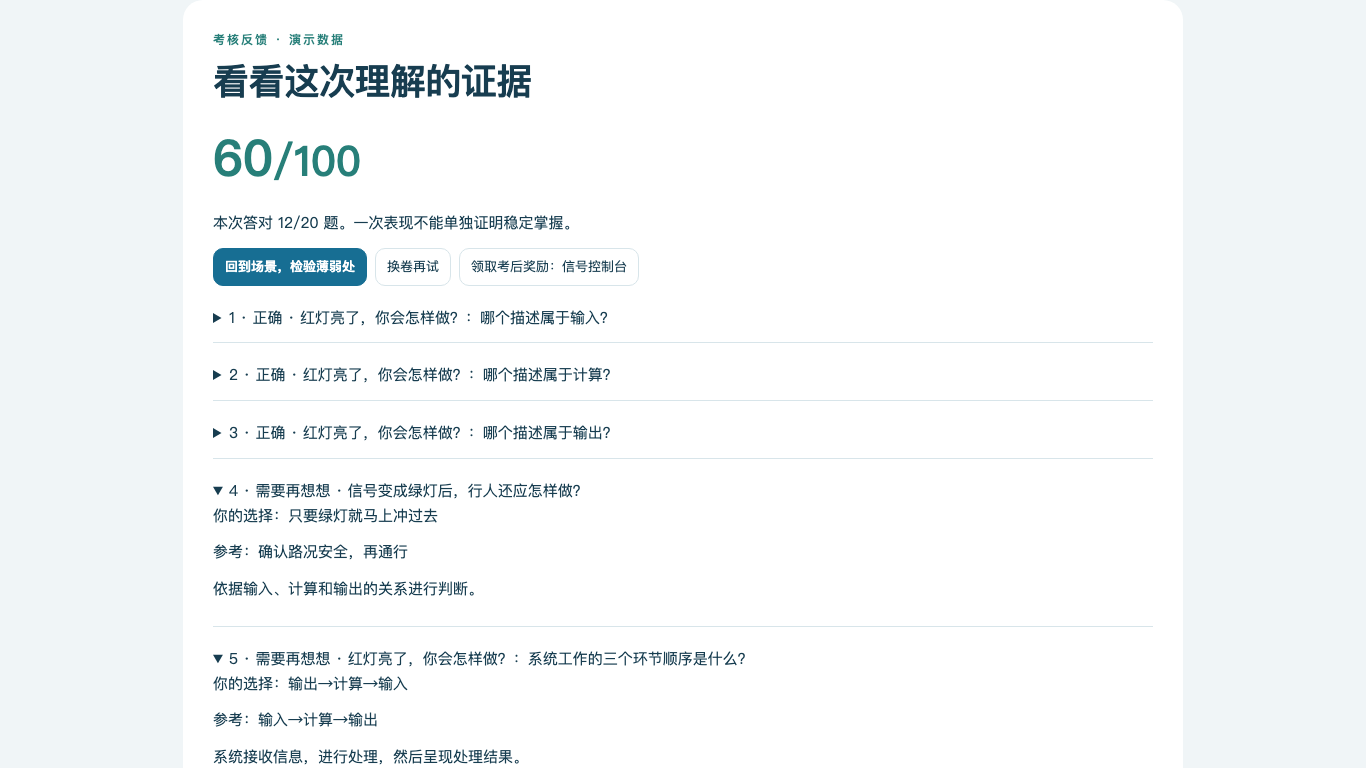
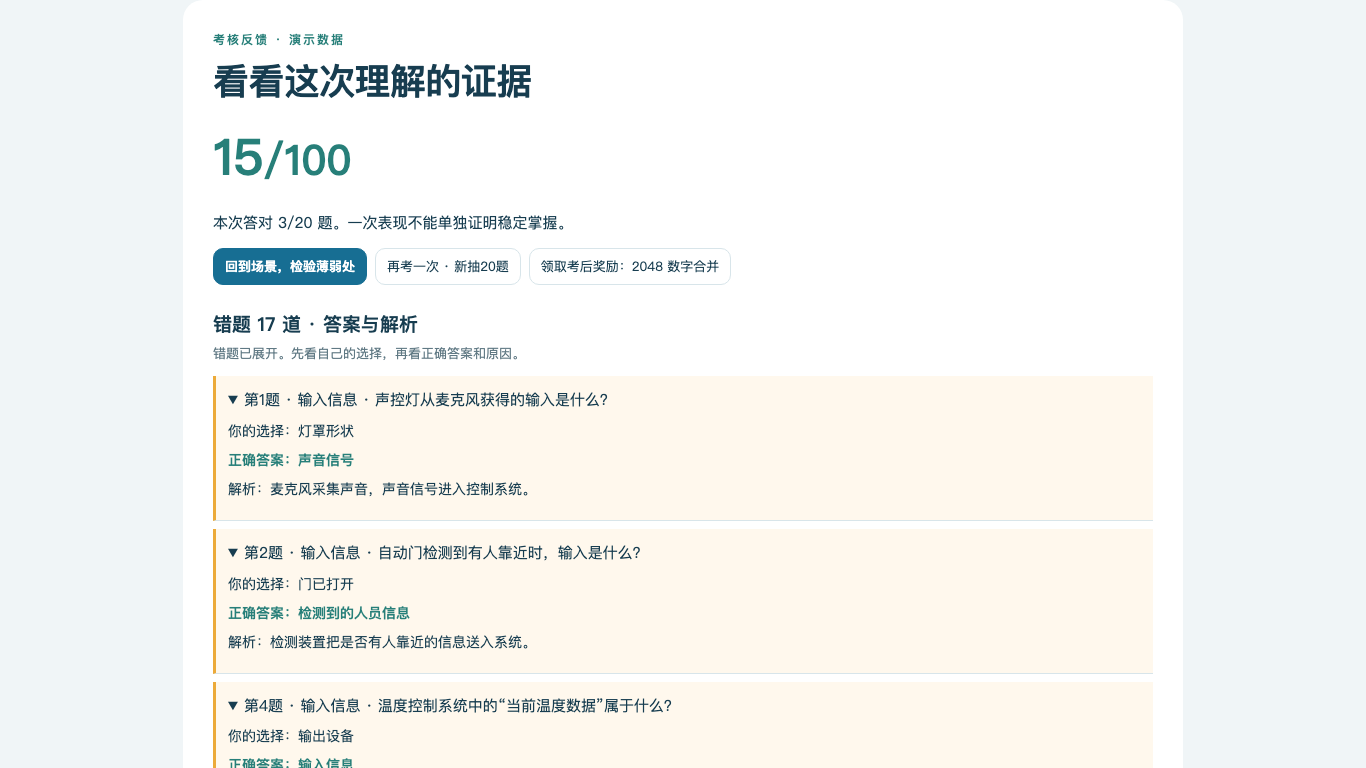
Clarify repeat exams and show wrong answer explanations

Changed region(s): [[0.1537, 0.4062, 0.5534, 1.0], [0.1845, 0.2812, 0.5227, 0.375], [0.1537, 0.1562, 0.2767, 0.25]]

diff --git a/public/index.html b/public/index.html
@@ -1,4 +1,4 @@
-<!doctype html><html lang="zh-CN"><head><meta charset="utf-8"><meta name="viewport" content="width=device-width,initial-scale=1"><title>校园系统探索站 · 输入输出与计算</title><link rel="stylesheet" href="/style.css?v=6"><script src="/rules.js?v=1" defer></script><script type="module" src="/app.mjs?v=7"></script></head><body>
+<!doctype html><html lang="zh-CN"><head><meta charset="utf-8"><meta name="viewport" content="width=device-width,initial-scale=1"><title>校园系统探索站 · 输入输出与计算</title><link rel="stylesheet" href="/style.css?v=7"><script src="/rules.js?v=1" defer></script><script type="module" src="/app.mjs?v=8"></script></head><body>
 <header class="site-head"><a class="brand" href="/">小递的校园探索站<small>六年级 · 第4课</small></a><div class="head-actions"><span id="identity"></span><button id="export" hidden>保存学习报告</button><button id="switch" hidden>切换学生</button></div></header>
 <section id="login" class="welcome"><div class="welcome-copy"><p class="eyebrow">输入 · 计算 · 输出</p><h1>校园里的设备，<br>怎样知道该做什么？</h1><p>陪小递走过路口、楼道和校园入口。<br>先想一想，再亲手检验你的猜测。</p><div class="welcome-art" id="welcome-art"></div></div><form id="login-form" class="login-panel"><h2>今天，你是校园观察员</h2><p>选好班级和姓名，继续自己的探索。</p><label>班级<select id="class" required><option value="">请选择六年级班级</option></select></label><label>找姓名<input id="search" placeholder="输入姓名查找" autocomplete="off"></label><label>姓名<select id="name" required><option value="">请先选班级</option></select></label><label class="check"><input type="checkbox" id="manual">名单里没有我</label><label id="manual-box" hidden>手动填写姓名<input id="manual-name" maxlength="30" autocomplete="off"></label><p id="identity-confirm" class="note">班级和姓名将用于保存你的学习记录。</p><button class="primary" type="submit">确认身份，进入校园</button><p id="login-error" role="alert"></p><a class="subtle" href="/demo">先看看演示 →</a></form></section>
 <main id="learning" hidden><div class="progress-line"><nav id="stages" aria-label="学习关卡"></nav><div><b id="points">0 积分</b><small id="sync-status" role="status"></small></div></div><div id="test-tools" class="test-tools" hidden><b>教师隔离测试 · 虚构身份</b><button id="fill-example">载入本关达标示例</button><button id="test-reset">清空测试状态</button><a href="/teacher">返回大屏</a></div>

diff --git a/public/style.css b/public/style.css
@@ -24,3 +24,4 @@
 .reward-2048 .note{font-size:12px}.reward-2048 .reward-credit{font-size:11px;color:#796c5c;margin:8px 0 0}
 @media(max-width:1000px){.reward-2048-layout{grid-template-columns:1fr}.reward-2048 iframe{max-width:560px;margin:auto}.reward-2048 aside{position:static}}
 @media(max-width:620px){main{padding-left:12px;padding-right:12px}#quiz-page .result-card{padding:16px}.reward-2048{padding:12px}.reward-2048 h2{font-size:21px}.reward-2048-layout{gap:12px}}
+.exam-review{margin-top:26px}.exam-review h2{font-size:19px;margin:20px 0 5px}.exam-review>p{font-size:13px;color:var(--muted)}.exam-review details[open]{background:#fff8ed;border-left:3px solid var(--amber);padding:12px}.exam-review details p{font-size:14px;line-height:1.5;margin:8px 0}.exam-review details p b{color:var(--teal)}

diff --git a/README.md b/README.md
@@ -16,7 +16,7 @@
 
 40分钟预估：登录与情境4分钟；红灯3分钟；教师现场声控7分钟；学生独立仿真与解释8分钟；汉字7分钟；自动门6分钟；交流3分钟；缓冲2分钟。约31分钟探究，需要真实课堂校准。每次20题考核另排12—15分钟，考前可返回继续学习，不阻塞主线；40题库覆盖五项目标，抽题的等值性尚未施测验证。
 
-提交完整的20题后，结果页出现选做奖励“2048 数字合并”。学生用方向键或按钮移动数字，游戏按滑动与相同数字合并的规则更新棋盘；旁侧同步显示这次输入的方向、实际发生的处理和可见结果，供学生比较“合并”与“未合并”两种操作。刷新或返回考核页后，已提交的学生仍可从最近一次结果进入奖励；点“换卷再试”才创建新试卷。奖励不设分数门槛，不改变考核成绩和通关积分。游戏来自 GitHub 原版2048，查询时约1.34万星，固定版本、改编范围和MIT许可见 `public/vendor/2048/SOURCE.md`。
+20题考核可以重复进行：每次完整提交后保留该次成绩，结果页把错题集中列在前面并自动展开，逐题显示自己的选择、正确答案和解析；答对的题目可按需展开。点击“再考一次 · 新抽20题”会从40题库重新抽题，前后两次可能有部分相同题目。刷新或返回考核页后，已提交的学生仍可查看最近一次结果。提交后另有选做奖励“2048 数字合并”：学生用方向键或按钮移动数字，旁侧同步显示输入方向、实际发生的处理和可见结果。奖励不设分数门槛，不改变考核成绩和通关积分。游戏来源、版本和MIT许可见 `public/vendor/2048/SOURCE.md`。
 
 只有教师机或少量设备有麦克风：教师大屏“开启教师机麦克风”，学生先预测，再将声源选为“观察教师现场实测”。请附近学生正常说话/轻拍手比较，不需要全班喊叫。小组轮换可实际采声，其余电脑使用明确标记的模拟声音。数据记录区分三种来源。
 

diff --git a/docs/验收记录.md b/docs/验收记录.md
@@ -60,3 +60,9 @@
 ## 2026-09-29 局域网入口的结果页排版修正
 
 复现到第4页底部提交后，结果页保留旧滚动位置，标题落在视口上方约750像素，第一眼只能看到后半部分解析。现在切换考核页、结果页或新试卷时会回到内容顶部。用本机当前物理网卡IP的HTTP入口，在1366×768浏览器视口完成演示考核，结果标题位于视口内，样式表与脚本均成功载入、无横向溢出和资源错误；“换卷再试”后新试卷标题也可见。虚拟网卡地址不再作为课堂入口打印。页面截图见[考核结果页预览.png](考核结果页预览.png)。此项是在教师电脑经其局域网IP自检，尚不等同于另一台学生电脑的网络连通测试。
+
+## 2026-09-29 重复考核与错题解析
+
+结果页现在明确显示本轮第几次考核，错题集中在前并自动展开，逐题标出学生选择、正确答案和解析；答对的题目折叠显示。按钮明确写为“再考一次 · 新抽20题”。服务端仍只接受完整20题提交，每次保留独立的试卷编号与成绩，40题库每次重抽20题，题目可能与上一轮部分重复。
+
+虚构学生的独立临时数据库浏览器走查连续提交两轮：第一次15分、17道错题，第二次10分、18道错题；两轮试卷编号不同、记录数为2，页面展开错题数与服务端反馈一致。刷新后仍显示第2次成绩及解析。新增自动测试核对重复提交历史和错题答案、解析的显示；测试未写入正式课堂记录。
